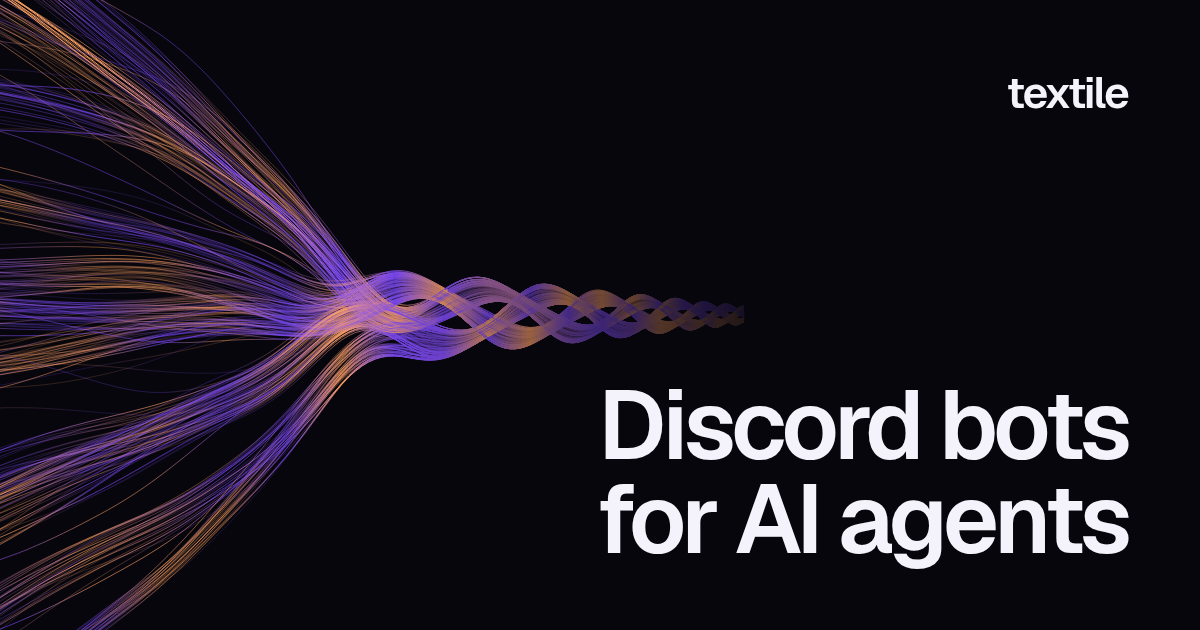
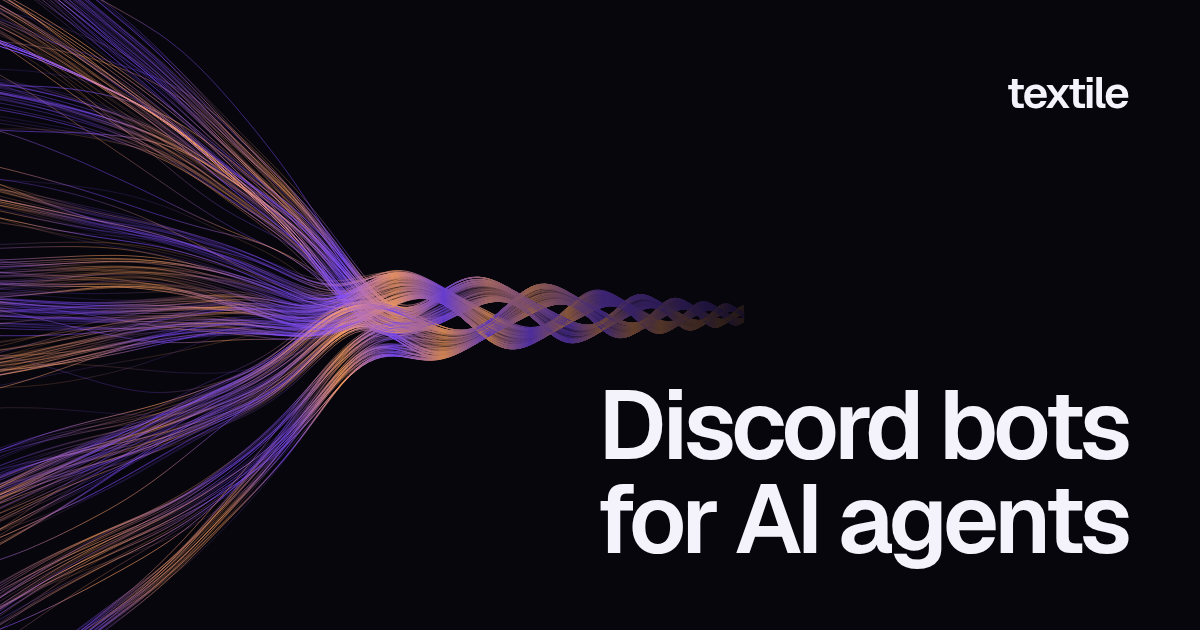
fix(web): the lead burns four times the brightest fibre and moves on its own, glints stay their fibre's colour, and bands fade between colours
- [F3] The lead's fibres take the colour and sway of a bundle on the far side of the current, so they cross the
  bundles beside them as a strand of their own instead of reading as a bundle's edge; four fibres, not six.
- [F4] Each lead fibre now starts from the brightest fibre's light, so the lead is four times the brightest of the
  rest, as the docs say, rather than a multiple of a random dim fibre. The cord and its 2D fallback do the same.
- [F5] The hero's bundles start to gather at least 360px before the copy's edge, so the convergence stays long where
  the gap between the copy and the window is narrow.
- [F6] Loose glints take their fibre's own violet or amber, at a light that keeps the hue, instead of flecking the
  current with grey.
- [F7] A band fades from violet into amber over most of a crossing: a softer turn and a slower gradient in the plait.

The social card is redrawn from the new geometry.

diff --git a/apps/web/src/lib/threads/shaders.ts b/apps/web/src/lib/threads/shaders.ts
@@ -164,13 +164,15 @@ const constants = (declare: (name: string, value: string) => string) =>
     // with the flow (thread lengths per second). In the braid they spark on GLINT_SHARE of the fibres where a strand
     // passes over its neighbour, brightest on its band's edge fibres, and burn a few hundred times a lone fibre's light.
     // On loose fibres, LOOSE_GLINTS of the places a glint could be spark, at LOOSE_GLINT: a few glints at a time, each
-    // on a fibre of its own, as bright as the braid's, so they bloom too.
+    // on a fibre of its own and alone hot enough to bloom, as the braid's do where many fibres spark together.
     declare('GLINTS', float(8)),
     declare('GLINT_SPEED', float(0.05)),
     declare('GLINT_LIGHT', float(200)),
     declare('GLINT_SHARE', float(0.2)),
-    declare('LOOSE_GLINT', float(260)),
+    // LOOSE_WHITE is how far toward white a loose glint's own colour leans: a little, so it reads as a hot fibre.
+    declare('LOOSE_GLINT', float(90)),
     declare('LOOSE_GLINTS', float(0.01)),
+    declare('LOOSE_WHITE', float(0.1)),
     // How dark a fibre is behind the braid, against in front of it, and how much hotter it burns on a crossing's crest.
     declare('BACK', float(0.2)),
     declare('CREST', float(4)),
@@ -306,11 +308,11 @@ fn pulse(phase: f32, light: f32) -> f32 {
 
 // A glint's light where a fibre is phase of the way through its glints (g: x its phase, y its loose light, z its braid
 // light, w its seed): short, sharp sparks, each centred on a whole phase. A loose fibre sparks at only LOOSE_GLINTS of
-// them, picked by its seed.
-fn glint(g: vec4f) -> f32 {
+// them, picked by its seed. Loose glints in x, the braid's in y.
+fn glint(g: vec4f) -> vec2f {
   var c = 0.5 + 0.5 * cos(TAU * g.x);
   c = c * c; c = c * c; c = c * c; c = c * c; c = c * c; c = c * c;
-  return c * (g.y * step(hash(round(g.x) * 0.731 + g.w), LOOSE_GLINTS) + g.z);
+  return c * vec2f(g.y * step(hash(round(g.x) * 0.731 + g.w), LOOSE_GLINTS), g.z);
 }
 
 @fragment
@@ -318,9 +320,13 @@ fn fs(v: Out) -> @location(0) vec4f {
   let d = abs(v.across) * ${HALF_WIDTH};
   let core = exp(-(d * d) / 0.3);
   let halo = 0.1 * exp(-(d * d) / 1.6);
-  // A glint adds warm-white light of its own, as bright as the fibre's strongest channel, so it burns white over a band
-  // whose own colour is already saturated, rather than adding more of that colour.
-  let spark = ${SPARK_WHITE('vec3f')} * max(v.colour.r, max(v.colour.g, v.colour.b)) * glint(v.glint);
+  // A glint adds light of its own, as bright as the fibre's strongest channel: in the braid warm white, so it burns
+  // white over a band whose own colour is already saturated; on a loose fibre mostly the fibre's own hue, so it blooms
+  // violet or amber rather than flecking the current with grey.
+  let peak = max(v.colour.r, max(v.colour.g, v.colour.b));
+  let g = glint(v.glint);
+  let white = ${SPARK_WHITE('vec3f')};
+  let spark = peak * (mix(v.colour / max(peak, 1e-6), white, LOOSE_WHITE) * g.x + white * g.y);
   return vec4f((v.colour * pulse(v.pulse.x, v.pulse.y) + spark) * (core + halo), 1.0);
 }`
 
@@ -414,6 +420,7 @@ fn vs(@builtin(vertex_index) vi: u32, @builtin(instance_index) ii: u32) -> Out {
   let hue = hueOf(u, eased(U[3].x, mix(U[3].x, U[11].x, PLAIT), u), mix(pick, th.strand / 3.0, here.braided), t, breathing);
   let colour = linear(mix(U[8].rgb, U[9].rgb, cool(warmth(hue), here.depth, knit)));
   var own = DIM + (1.0 - DIM) * pow(hash(i + 2.2), 3.0);
+  if (th.lead > 1.0) { own = 1.0; }
   if (i < U[3].w) { own = LABELLED; }
   // Bands in front of the braid catch the light; those behind fall into shadow. Many threads share the braid, so
   // each gives less light there, its band's edges more than its inside.
@@ -697,7 +704,7 @@ void main() {
   float breathing = breath(th.strand, u, t);
   float hue = hueOf(u, eased(U[3].x, mix(U[3].x, U[11].x, PLAIT), u), mix(pick, th.strand / 3.0, here.braided), t, breathing);
   vec3 colour = linear(mix(U[8].rgb, U[9].rgb, cool(warmth(hue), here.depth, knit)));
-  float own = i < U[3].w ? LABELLED : DIM + (1.0 - DIM) * pow(hash(i + 2.2), 3.0);
+  float own = i < U[3].w ? LABELLED : th.lead > 1.0 ? 1.0 : DIM + (1.0 - DIM) * pow(hash(i + 2.2), 3.0);
   float shade = mix(own, braidLight(here.depth, th.fibre, own), knit) * th.lead * (1.0 + BREATH_LIGHT * breathing) * smoothstep(0.0, 0.06, u);
 
   vec2 res = U[0].xy;
@@ -731,14 +738,17 @@ float pulse(float phase, float light) {
   float crest4 = crest * crest * crest * crest;
   return 0.55 + light * crest4 * crest4 * crest4;
 }
-float glint(vec4 g) {
+vec2 glint(vec4 g) {
   float c = 0.5 + 0.5 * cos(TAU * g.x);
   c = c * c; c = c * c; c = c * c; c = c * c; c = c * c; c = c * c;
-  return c * (g.y * step(hash(round(g.x) * 0.731 + g.w), LOOSE_GLINTS) + g.z);
+  return c * vec2(g.y * step(hash(round(g.x) * 0.731 + g.w), LOOSE_GLINTS), g.z);
 }
 void main() {
   float d = abs(vAcross) * ${HALF_WIDTH};
-  vec3 spark = ${SPARK_WHITE('vec3')} * max(vColour.r, max(vColour.g, vColour.b)) * glint(vGlint);
+  float peak = max(vColour.r, max(vColour.g, vColour.b));
+  vec2 g = glint(vGlint);
+  vec3 white = ${SPARK_WHITE('vec3')};
+  vec3 spark = peak * (mix(vColour / max(peak, 1e-6), white, LOOSE_WHITE) * g.x + white * g.y);
   colour = vec4((vColour * pulse(vPulse.x, vPulse.y) + spark) * (exp(-(d * d) / 0.3) + 0.1 * exp(-(d * d) / 1.6)), 1.0);
 }
 `
@@ -961,9 +971,11 @@ fn vs(@builtin(vertex_index) vi: u32, @builtin(instance_index) ii: u32) -> Out {
   let breathing = breath(th.strand, run + U[2].w, t);
   let hue = hueOf(0.0, 0.0, th.strand / 3.0 + LOOSE_HUE * (pick - 0.5) * here.loose, t, breathing) + here.hue + U[2].y;
   let colour = linear(mix(U[8].rgb, U[9].rgb, cool(warmth(hue), here.depth, knit)));
-  let own = DIM + (1.0 - DIM) * pow(hash(i + 2.2), 3.0);
-  // The lead burns brighter all the way down, on the cord and on the strand that carries it on where the cord ends.
-  let lead = 1.0 + (TRACED - 1.0) * th.lead * here.leads;
+  // The lead burns brighter all the way down, on the cord and on the strand that carries it on where the cord ends:
+  // TRACED times the brightest of the rest.
+  let leads = th.lead * here.leads;
+  let own = mix(DIM + (1.0 - DIM) * pow(hash(i + 2.2), 3.0), 1.0, leads);
+  let lead = 1.0 + (TRACED - 1.0) * leads;
   let shade = mix(own * LOOSE_LIGHT, braidLight(here.depth, th.fibre, own), knit) * lead * (1.0 + BREATH_LIGHT * breathing);
   // The cord fades out over FADE above its tip, and dims behind prose.
   let tip = 1.0 - smoothstep(U[1].z - FADE, U[1].z, here.at.y);
@@ -1073,8 +1085,9 @@ void main() {
   float breathing = breath(th.strand, run + U[2].w, t);
   float hue = hueOf(0.0, 0.0, th.strand / 3.0 + LOOSE_HUE * (pick - 0.5) * here.loose, t, breathing) + here.hue + U[2].y;
   vec3 colour = linear(mix(U[8].rgb, U[9].rgb, cool(warmth(hue), here.depth, knit)));
-  float own = DIM + (1.0 - DIM) * pow(hash(i + 2.2), 3.0);
-  float lead = 1.0 + (TRACED - 1.0) * th.lead * here.leads;
+  float leads = th.lead * here.leads;
+  float own = mix(DIM + (1.0 - DIM) * pow(hash(i + 2.2), 3.0), 1.0, leads);
+  float lead = 1.0 + (TRACED - 1.0) * leads;
   float shade = mix(own * LOOSE_LIGHT, braidLight(here.depth, th.fibre, own), knit) * lead * (1.0 + BREATH_LIGHT * breathing);
   float tip = 1.0 - smoothstep(U[1].z - FADE, U[1].z, here.at.y);
 

diff --git a/apps/web/src/lib/threads/geometry.ts b/apps/web/src/lib/threads/geometry.ts
@@ -178,16 +178,16 @@ export const SHAPE = {
    * neighbours a third of a cycle apart.
    */
   gradient: 2.4,
-  braidGradient: 10,
+  braidGradient: 8,
   /** How fast the gradient flows toward the window, in cycles per second. */
   flow: 0.06,
   /**
    * How each cycle splits between violet and amber: below 0 keeps more of it violet. And how soft the turn between
-   * them is: low, so a thread is violet or amber for most of its length and passes the pinkish mix between them
-   * quickly, as the concept's strands do.
+   * them is: soft enough that a band fades from one into the other over most of a crossing, as the concept's do,
+   * while each colour still holds saturated between the turns.
    */
   warm: -0.12,
-  turn: 0.45,
+  turn: 0.75,
   /**
    * The strands breathe: a slow swell of light and warmth, `breath` cycles per second, that travels toward the window
    * in `breathWaves` waves per unit along, a third of a cycle apart between strands. `breathLight` is how much brighter
@@ -200,19 +200,20 @@ export const SHAPE = {
   /**
    * The lead: a few fibres that burn `traced` times brighter than the brightest of the rest, all the way along, so the
    * eye can follow one strand from the current through the braid and down the page. They are threads `traceFirst` on,
-   * `traceCount` of them, with ribbon `traceRibbon`'s colour, on a lane of their own, `traceLane` across the current
-   * and `traceHalf` wide: high, inside the labelled threads, so it runs in clear dark above the hero's headline before
-   * it gathers into the top strand. In the braid they ride their strand's edge, `trace` across its band and inward in
-   * steps of `traceStep`.
+   * `traceCount` of them, on a lane of their own, `traceLane` across the current and `traceHalf` wide: high, inside the
+   * labelled threads, above the hero's headline, before they gather into the top strand. They take the colour and sway
+   * of ribbon `traceRibbon`, on the far side of the current, so they move unlike the bundles beside them and cross them
+   * as a strand of their own. In the braid they ride their strand's edge, `trace` across its band and inward in steps of
+   * `traceStep`.
    */
   traceFirst: 4,
-  traceCount: 6,
-  traceRibbon: 1,
+  traceCount: 4,
+  traceRibbon: 7,
   traceLane: -0.8,
   traceHalf: 0.02,
   trace: 0.98,
   traceStep: 0.04,
-  traced: 5,
+  traced: 4,
 } as const
 
 /** The same hash the shaders use: a thread's index to a stable pseudo-random number in [0, 1). */
@@ -513,7 +514,11 @@ export const warmth = (field: Field, i: number, u: number, t: number, braided: n
  */
 export const brightness = (field: Field, i: number, knitted = 0) => {
   const own =
-    i < field.labels.length ? SHAPE.labelled : SHAPE.dim + (1 - SHAPE.dim) * hash(i + 2.2) ** 3
+    i < field.labels.length
+      ? SHAPE.labelled
+      : isTraced(i)
+        ? 1
+        : SHAPE.dim + (1 - SHAPE.dim) * hash(i + 2.2) ** 3
   // Inside a band the fibres glow more evenly than in the funnel: the cube root of their own brightness.
   const inBand = thread(field, i).edge ? SHAPE.edgeLight : SHAPE.innerLight * Math.cbrt(own)
   return (own + (inBand - own) * knitted) * (isTraced(i) ? SHAPE.traced : 1)

diff --git a/apps/web/src/routes/+page.svelte b/apps/web/src/routes/+page.svelte
@@ -103,11 +103,13 @@ function clearOfCopy(field: Field, label: Label) {
 /** How far short of the window's edge the cord ends, in CSS pixels. */
 const TIP_GAP = 4
 /**
- * The hero's bundles start to gather GATHER times the gap's width before the copy's edge, behind the copy, so they
- * converge over a long stretch. The plait forms only in the open gap between the copy and the window, at every width:
- * its strands start to wind at the copy's edge and wind tighter all the way to the window, where the plait is whole.
+ * The hero's plait forms only in the open gap between the copy and the window, at every width: its strands start to
+ * wind at the copy's edge and wind tighter all the way to the window, where the plait is whole. (Not behind the window:
+ * its glass would show the plait through its messages.) The bundles start to gather behind the copy, GATHER times the
+ * gap before its edge and at least MIN_GATHER pixels, so they converge over a long stretch even where the gap is narrow.
  */
 const GATHER = 1.2
+const MIN_GATHER = 360
 
 type Spine = Pick<Field, 'start' | 'control' | 'end'>
 
@@ -125,12 +127,12 @@ function crossing(field: Spine, axis: 0 | 1, value: number) {
 }
 
 /**
- * Where `field` braids: its bundles gather from well behind the copy, its plait forms where its spine leaves the copy,
- * at `copyEdge` on `axis`, and it is whole where it meets the window, at `windowEdge`.
+ * Where `field` braids: its plait forms where its spine leaves the copy, at `copyEdge` on `axis`, and is whole at its
+ * end, the window; its bundles gather from well before that, behind the copy.
  */
-function braidBetween(field: Spine, axis: 0 | 1, copyEdge: number, windowEdge: number) {
-  const gathers = crossing(field, axis, copyEdge - (windowEdge - copyEdge) * GATHER)
-  return [gathers, crossing(field, axis, copyEdge), 1] as const
+function braidBetween(field: Spine, axis: 0 | 1, copyEdge: number) {
+  const gather = Math.max((field.end[axis] - copyEdge) * GATHER, MIN_GATHER)
+  return [crossing(field, axis, copyEdge - gather), crossing(field, axis, copyEdge), 1] as const
 }
 
 /** Where the hero's strands stand where they meet the window, so the page's cord carries them on below it. */
@@ -165,10 +167,7 @@ function hero(
       intensity: 0.75,
       labels: [],
     } satisfies Omit<Field, 'braid'>
-    const field: Field = {
-      ...shape,
-      braid: braidBetween(shape, 0, copy?.right ?? width * 0.45, end[0] + TIP_GAP),
-    }
+    const field: Field = { ...shape, braid: braidBetween(shape, 0, copy?.right ?? width * 0.45) }
     seam = seamOf(field)
     const labelled = width >= LABELLED && height >= LABELLED_HEIGHT
     return { ...field, labels: labelled ? LABELS.filter((label) => clearOfCopy(field, label)) : [] }
@@ -189,7 +188,7 @@ function hero(
   } satisfies Omit<Field, 'braid'>
   return {
     ...shape,
-    braid: braidBetween(shape, 1, copy?.bottom ?? height * 0.5, end[1]),
+    braid: braidBetween(shape, 1, copy?.bottom ?? height * 0.5),
   }
 }
 

diff --git a/apps/web/src/lib/threads/cordRenderer.ts b/apps/web/src/lib/threads/cordRenderer.ts
@@ -147,7 +147,8 @@ export function cordStill(canvas: HTMLCanvasElement): CordRenderer | undefined {
         const { warmth, leads } = cordWarmth(laid, i, span.first + k, time, th)
         return {
           at: place(laid, i, span.first + k, time, th).point,
-          colour: css(blend(warmth), Math.min(1, own * (leads ? SHAPE.traced : 1))),
+          // The lead is TRACED times the brightest of the rest.
+          colour: css(blend(warmth), Math.min(1, leads ? 0.5 * SHAPE.traced : own)),
         }
       })
       // Neighbouring pieces share their end point, so the thread runs on unbroken. Each piece's colour runs along its

diff --git a/apps/web/DESIGN.md b/apps/web/DESIGN.md
@@ -84,28 +84,32 @@ for event labels, the 2D fallbacks, and the social card. The page's cord (`cord.
 - `braid` holds three points along the field. From `gathers`, the bundles start gathering into three strands side by
   side, inner lanes mostly first; from `forms`, the strands grow their swing into a plait over half the stretch to
   `whole`, and every thread has joined its strand by 70% of it. The hero measures them from its layout, again when
-  webfonts load: the bundles start to gather behind the copy, 1.2 gaps before its right edge; the plait forms only in
-  the open gap between the copy and the window, at every width; and it is whole where it meets the window. Each thread
-  eases in with no corner, so the plait has no visible start. The braid narrows linearly to `cord` and keeps one helix
-  angle, a long pitch of 11 radii per twist (about 34°), so each crossing has room, twisting tighter as it goes to meet
-  the target at its thinnest. The hero's cord stops just short of the window; the window
+  webfonts load: the bundles start to gather behind the copy, 1.2 gaps before its right edge and at least 360px, so
+  they converge over a long stretch even where the gap is narrow; the plait forms only in the open gap between the copy
+  and the window, at every width, never behind the window, whose glass would show it through the messages; and it is
+  whole where it meets the window. Each thread eases in with no corner, so the plait has no visible start. The braid
+  narrows linearly to `cord` and keeps one helix angle, a long pitch of 11 radii per twist (about 34°), so each crossing
+  has room, twisting tighter as it goes to meet the target at its thinnest. The hero's cord stops just short of the
+  window; the window
   drops its black shadow there, so the cord's end stays bright, and a frame around it, which the window's clipping
   can't cut, takes the cord's light: on its rim, which faces the cord, and faintly across its face, falling off as the
   inverse square of the distance from the cord's end.
 - Only violet and amber: every thread runs violet to amber and back along its length, the gradient flowing toward the
-  target, faster in the plait (10 cycles per field length against 2.4 in the current). As threads gather they take
+  target, faster in the plait (8 cycles per field length against 2.4 in the current). As threads gather they take
   their strand's phase, a third of a cycle from its neighbours', so each band shows both colours and no band is one
-  colour. The rate is integrated along the field, so the colour never sweeps where it changes. Every strand breathes:
+  colour; a band fades from one into the other over most of a crossing. The rate is integrated along the field, so the colour never sweeps where it changes. Every strand breathes:
   a slow wave of light (±22%) and warmth, about six seconds long, travelling toward the target.
 - The threads emit light, in linear units with real range: a lone fibre in the current gives about 0.1, the braid's
   bands a few times that, and glints a few hundred times. Glints spark on a fifth of the braid's fibres where a strand
-  passes over its neighbour, and on loose fibres too, at one place in a hundred, at the same intensity, so they bloom.
+  passes over its neighbour, burning warm white. On loose fibres they spark at one place in a hundred, in the fibre's
+  own violet or amber, so a loose glint reads as a hot fibre rather than a grey fleck.
   Each thread is one instance, a triangle strip of 201 point pairs (crowded toward the end, where the braid twists
   tightest) widened 2px for its own halo. Pulses of light run along every thread toward the target, at its own phase in
   the funnel and in step within the braid, so they travel along it. Threads add their light into a half-float target.
-- The lead: six fibres that burn five times brighter than the brightest of the rest, on a lane of their own inside the
-  labelled threads, in clear dark above the headline. They gather into the top strand and ride its band's edge through
-  the plait. The page's cord carries the hero's strands on as themselves: its thread `i` is the hero's thread `i`, in
+- The lead: four fibres that burn four times brighter than the brightest of the rest, on a lane of their own inside
+  the labelled threads, above the headline. They take the colour and sway of a bundle on the far side of the current,
+  so they move unlike the bundles beside them and cross them as a strand of their own. They gather into the top strand
+  and ride its band's edge through the plait. The page's cord carries the hero's strands on as themselves: its thread `i` is the hero's thread `i`, in
   the same strand, with the same fibre, and it picks up the hero's twist, colour, and drift where the hero's cord meets
   the window, carried on behind the window to its bottom. So the lead runs down the whole cord, on its strand's side as
   the strands part behind each section, and on into the strand that leaves the cord where it comes apart in voice.
